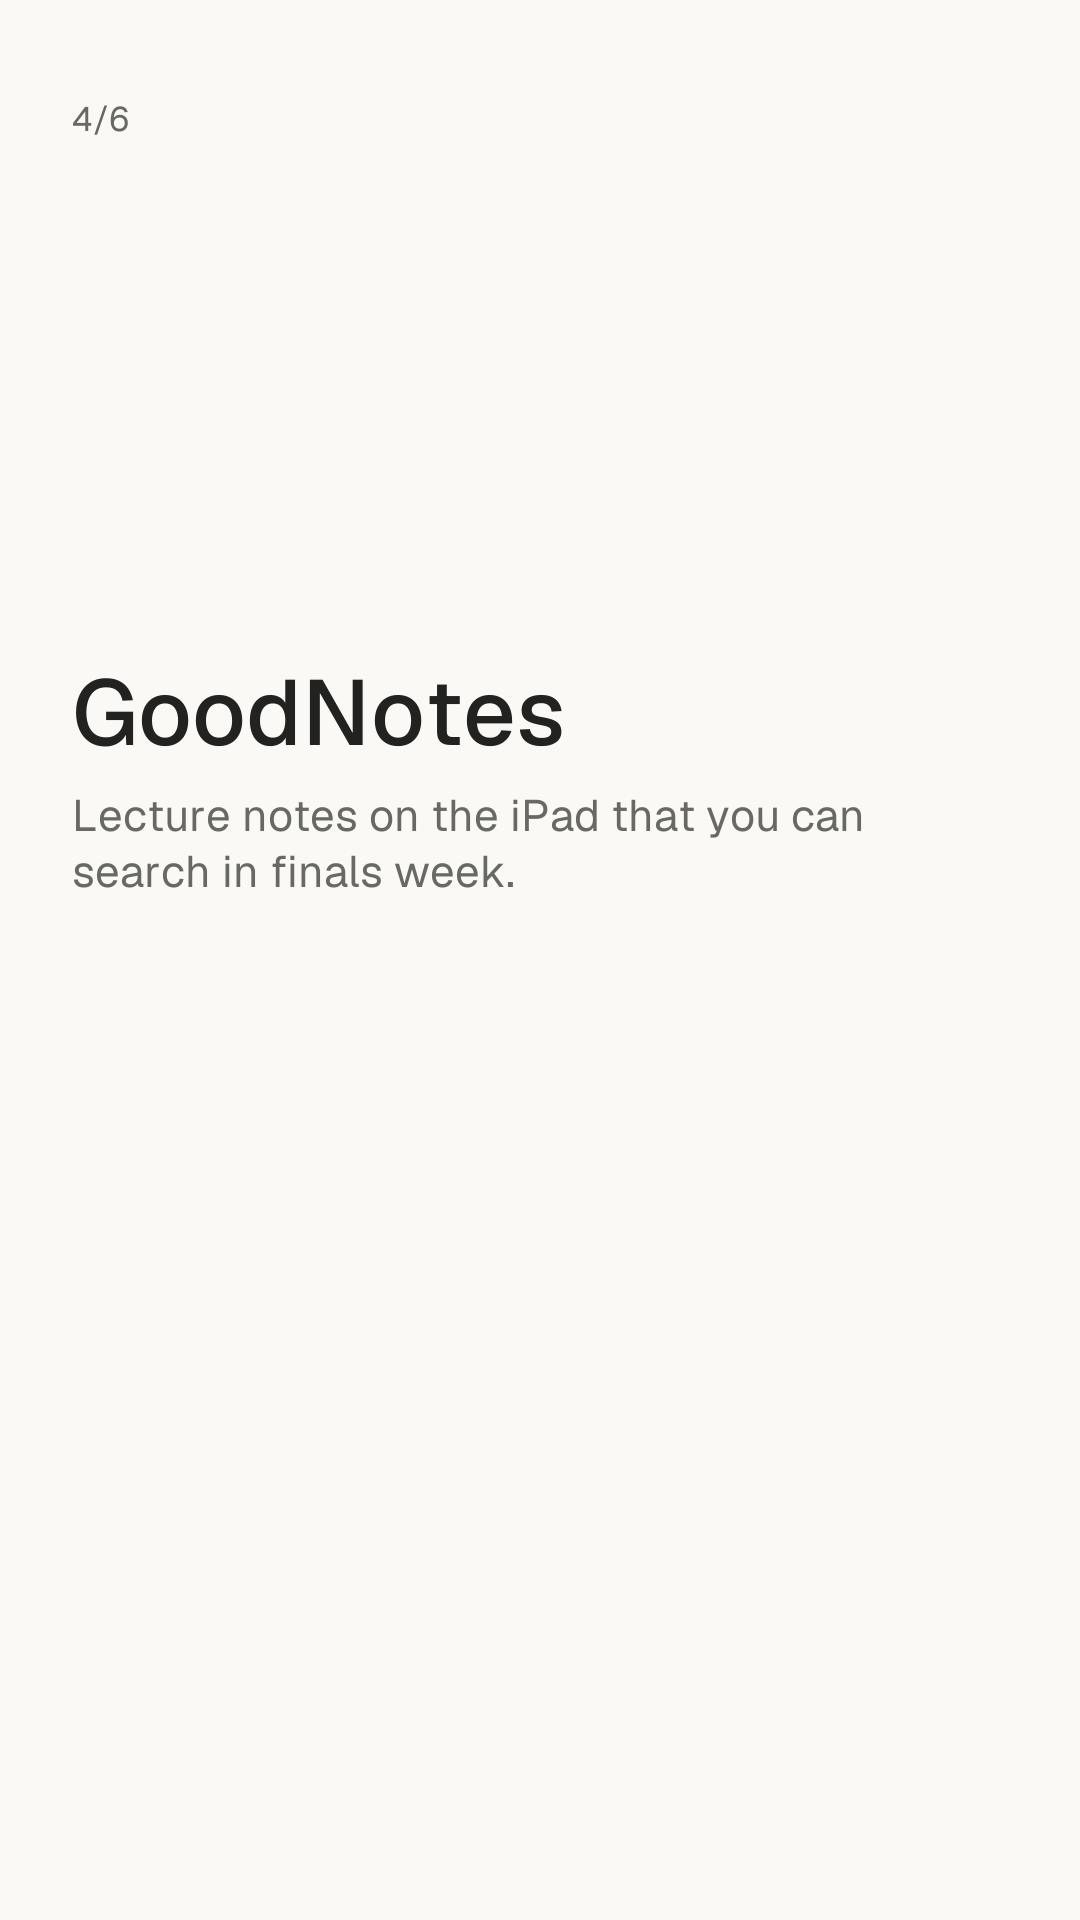
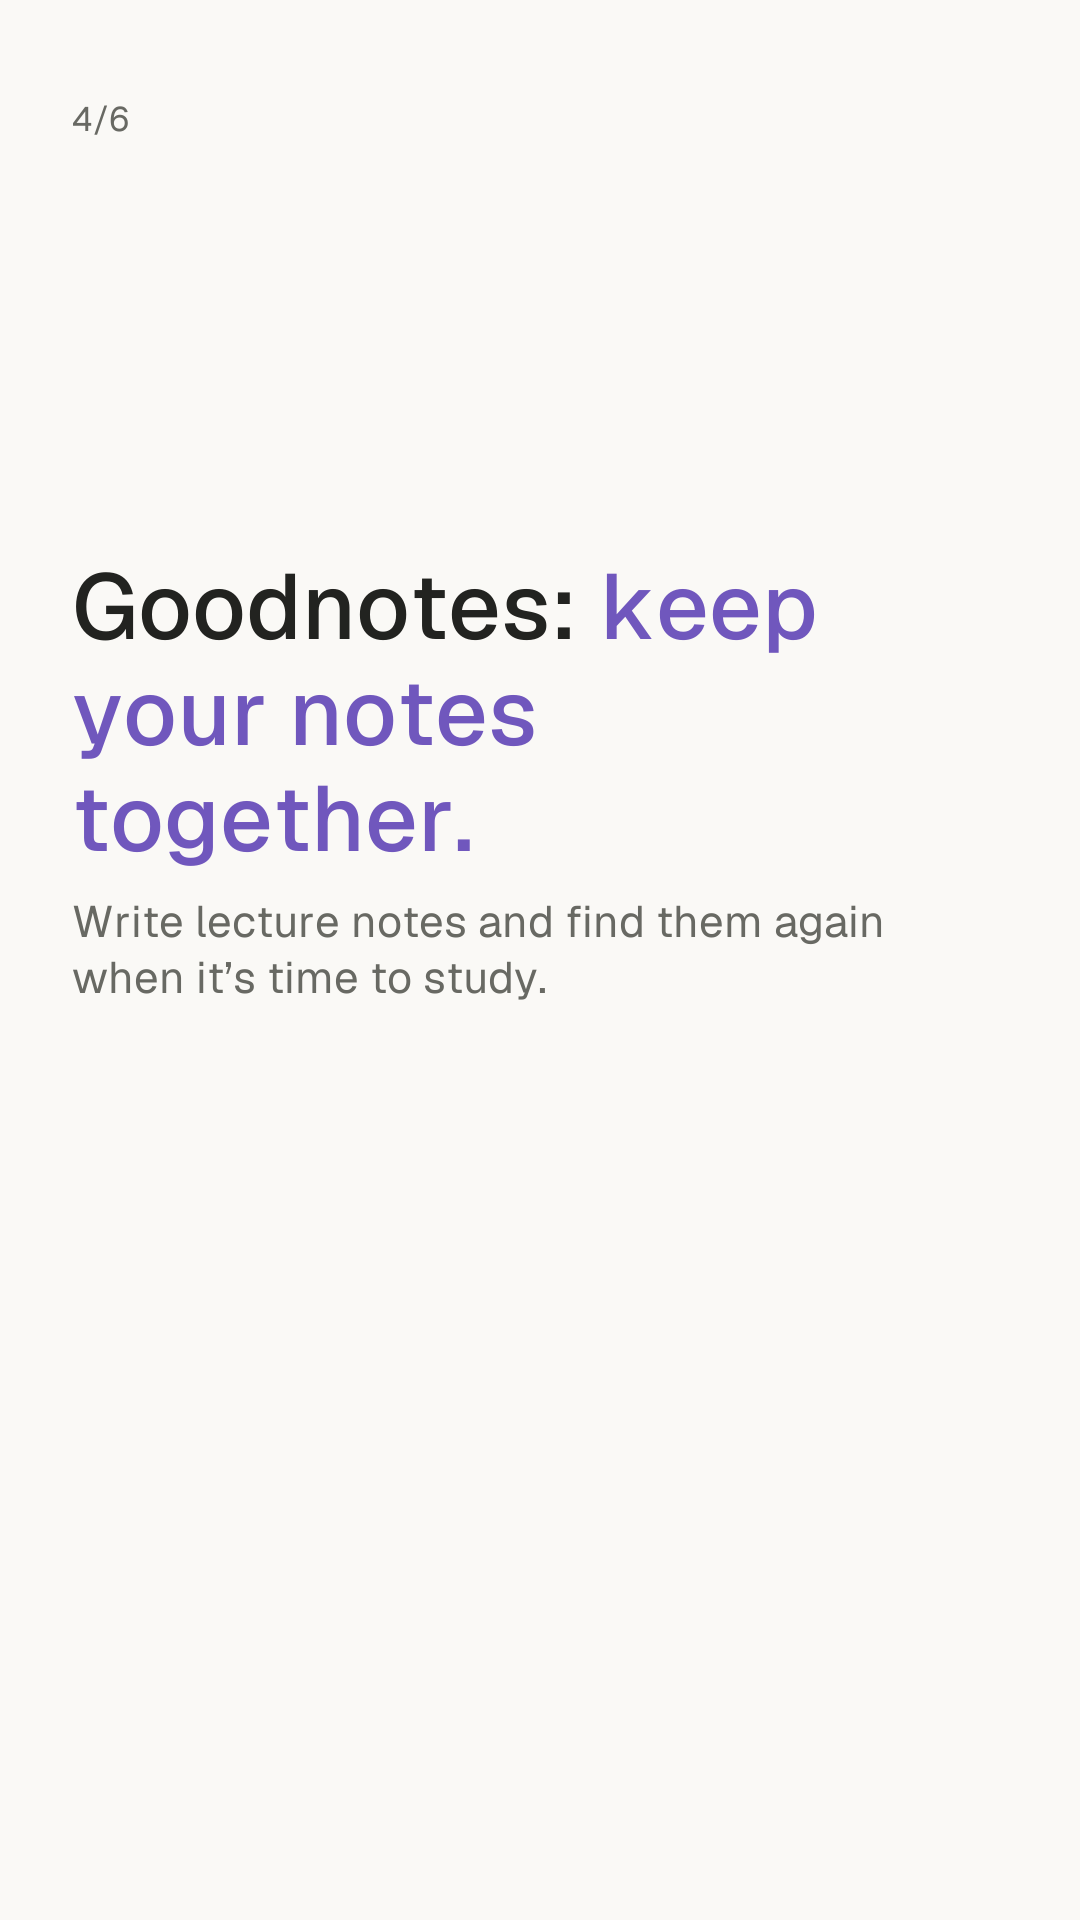
feat: update slide captions and content for clarity and engagement

Changed region(s): [[0.0611, 0.2812, 0.825, 0.5312], [0.55, 0.2812, 0.7639, 0.3438]]

diff --git a/design/slides/slides.py b/design/slides/slides.py
@@ -10,6 +10,8 @@ first comment for each set land in out/<set>/caption.txt.
 Text stays out of the bottom 250 px (TikTok's caption bar) and the right 130 px (its buttons).
 `~words~` in a title is the one lavender phrase, the way render-screenshots.py marks it. The
 screens are design/screenshots/raw/<name>.png; the syllabus page is drawn here as a prop.
+Edit the slide text, post captions and first comments together in DECKS, then regenerate every
+affected set. Read the rendered slides in order before calling a wording change finished.
 Needs Pillow.
 """
 from __future__ import annotations
@@ -50,49 +52,49 @@ class Deck:
     slides: list[Slide] = field(default_factory=list)
 
 
-END = Slide('semli.app', 'Free on iPhone. Link in bio.', end=True)
+END = Slide('Try Semli.', 'Get it on iPhone. Link in bio.', end=True)
 
 DECKS = [
     Deck('overlap',
-         'The shift that lands on your lab. Semli flags it before you save anything. #nursingstudent #collegestudent #workingstudent #studytok',
-         'Semli reads your syllabus and your shift screenshot onto one calendar and marks overlaps in red. The calendar, to-dos and reminders are free; Plus adds unlimited imports. Link in bio.',
+         'Your shift and your study group are at the same time. Semli puts them on one plan so you can catch the clash. #workingstudent #college #studentplanner',
+         'Overlap warnings are free. Add your plans by hand or import a syllabus or shift screenshot. You get five AI imports to start, then three a month.',
          [
-             Slide('A shift that lands on your lab. You find out ~the day of~, unless something checks first.'),
-             Slide('Work is in one app. Classes are in another.', 'Nothing compares them, so you do, from memory.'),
-             Slide('Put both on one week. An overlap turns red before you save anything.', screen='today'),
-             Slide('Then you can swap the shift a week early, while a swap is still possible.', screen='plan'),
+             Slide('Your shift and your study group are ~at the same time~.'),
+             Slide('Checking two schedules ~gets old~.', 'Especially when your shifts change every week.'),
+             Slide('See school and work ~together~.', 'Add your classes, shifts and study plans to Semli.', screen='today-hours'),
+             Slide('Check what needs ~to move~.', 'Open an overlap to see which plans clash.', screen='overlap-fix'),
              END,
          ]),
     Deck('syllabus',
-         'Nine dates in one PDF, and where they end up. #syllabus #collegestudent #nursingschool #studytok',
-         'Semli reads the syllabus, lists every date it found so you can check them, and adds them in one tap. The calendar, to-dos and reminders are free; Plus adds unlimited imports. Link in bio.',
+         'Got your syllabus? Upload the PDF to Semli, check the dates it finds and add them to your plan. Less typing at the start of term. #syllabus #college #studentplanner',
+         'One syllabus PDF counts as one import. You get five AI imports to start, then three a month. Plus adds unlimited imports. Download Semli through the link in our bio.',
          [
-             Slide('A syllabus has ~nine dates~ in it. Here’s where they end up.', prop='syllabus'),
-             Slide('Drop the PDF in. Every exam, quiz and due date is listed, so you can check them before adding.', screen='review-syllabus'),
-             Slide('One tap, and the whole term is on your calendar next to your shifts.', screen='plan'),
+             Slide('Get those due dates ~out of the PDF~.', 'Put them somewhere you’ll actually check.', prop='syllabus'),
+             Slide('Upload it. ~Check the dates~.', 'Fix anything Semli missed or got wrong before you save.', screen='review-syllabus'),
+             Slide('Plan your week ~around what’s due~.', 'See your course dates alongside your work shifts.', screen='plan'),
              END,
          ]),
     Deck('five-things',
-         'Five things to know before your first semester working and in school. #workingstudent #collegetips #nursingstudent #studytok',
-         'Number 1 is what we built Semli for: shifts and classes on one calendar, with overlaps marked. The calendar, to-dos and reminders are free; Plus adds unlimited imports. Link in bio.',
+         'A changing work schedule can make college harder to keep track of. A few habits that can help, whether you use Semli, a calendar or a notebook. #workingstudent #collegetips #studentplanner',
+         'Semli is the planner shown here. Add a syllabus or a shift screenshot, check the dates, and keep them together. Free to download on iPhone. Link in bio.',
          [
-             Slide('5 things to know before your first semester ~working and in school~.'),
-             Slide('1. Put your shifts and your classes on the same calendar.', 'The overlap you can’t see is the one that gets you.', screen='plan'),
-             Slide('2. Read the syllabus properly in week one.', 'Every exam date for the term is already in it. Get them out of the PDF and onto your calendar.'),
-             Slide('3. Your manager’s schedule screenshot is a calendar.', 'Add it the day it arrives, not the night before the shift.'),
-             Slide('4. Set reminders for the evening before.', 'That leaves time to actually do the thing.'),
-             Slide('5. Pick one place and check it every morning.', 'Before Canvas, before the group chat.', screen='today'),
+             Slide('5 things that help with ~classes and shifts~.'),
+             Slide('1. Check your shifts ~against your classes~.', 'Do it when the schedule comes out, while there’s time to ask about a clash.', screen='plan'),
+             Slide('2. Add ~due dates~ when you get them.', 'Include the ones from emails and group chats, too.'),
+             Slide('3. Leave time ~to do the work~.', 'Put a study session on your calendar before the deadline gets close.'),
+             Slide('4. Set reminders ~early enough to help~.', 'Give yourself time to prepare, get there or hand something in.'),
+             Slide('5. Check your plan ~each morning~.', 'See what’s due and when you need to leave.', screen='today'),
              END,
          ]),
     Deck('four-apps',
-         'Four apps for students who also work. One of them is ours. #studentapps #workingstudent #collegestudent #studytok',
-         'Semli is the second one. It reads syllabi and shift screenshots onto one calendar and marks overlaps. The calendar, to-dos and reminders are free; Plus adds unlimited imports. Link in bio.',
+         'Flashcards, lecture notes, a study timer and a place for your schedule. Four apps to try if you’re balancing college with a job. We make Semli. #studentapps #workingstudent #college',
+         'Semli is free to download on iPhone through the link in our bio. What do you use to keep track of class and work?',
          [
-             Slide('4 apps for students who ~also work~. One of them is ours.'),
-             Slide('Quizlet', 'Flashcards on the bus and between shifts.'),
-             Slide('Semli', 'Your syllabus and your shift screenshot, read onto one calendar. Overlaps turn red.', screen='plan'),
-             Slide('GoodNotes', 'Lecture notes on the iPad that you can search in finals week.'),
-             Slide('Forest', 'A timer that keeps you off your phone while you study.'),
+             Slide('4 apps to try for ~college and work~.', 'We make Semli, one of the apps on this list.'),
+             Slide('Quizlet: ~review between classes~.', 'Make flashcards for the material you need to remember.'),
+             Slide('Semli: ~keep track of your week~.', 'Put class dates and work shifts in one plan, and check where they overlap.', screen='plan'),
+             Slide('Goodnotes: ~keep your notes together~.', 'Write lecture notes and find them again when it’s time to study.'),
+             Slide('Forest: ~make time to focus~.', 'Set a study timer and grow a virtual tree while you focus.'),
              END,
          ]),
 ]
